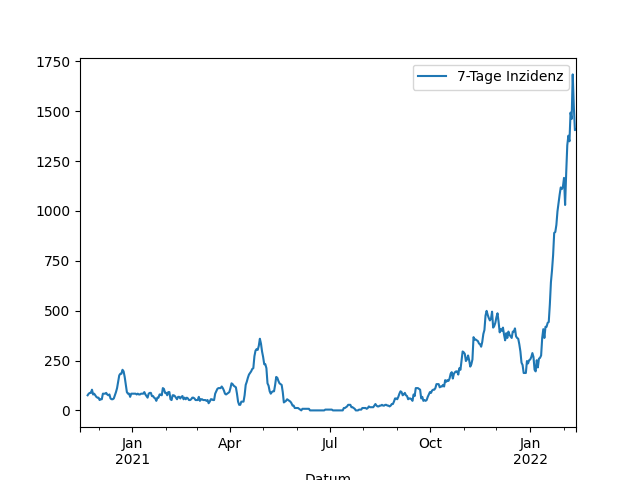
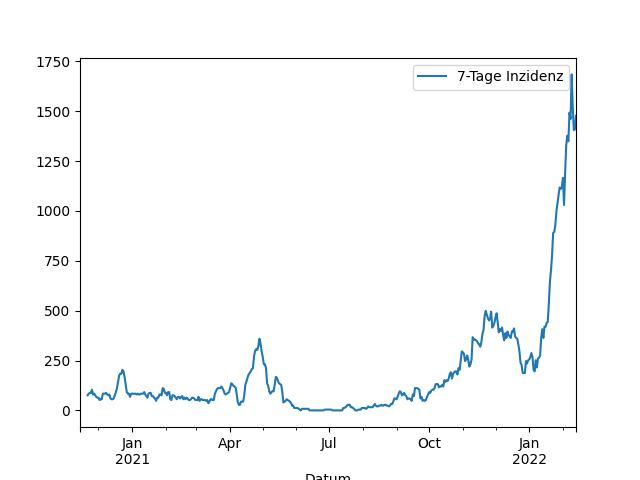
Update images

diff --git a/_includes/aktuelle_inzidenz.md b/_includes/aktuelle_inzidenz.md
@@ -1,1 +1,1 @@
-1409,1
+1476,9
